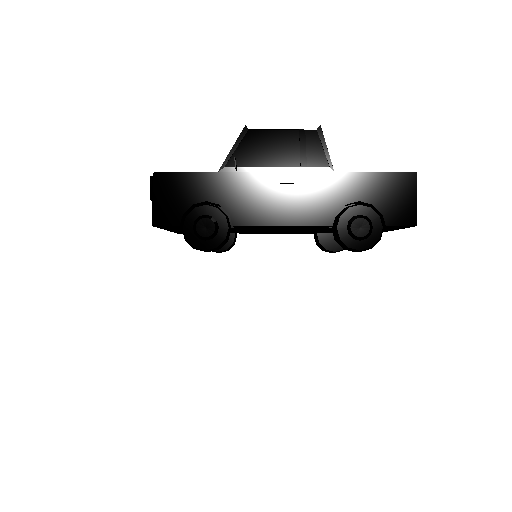
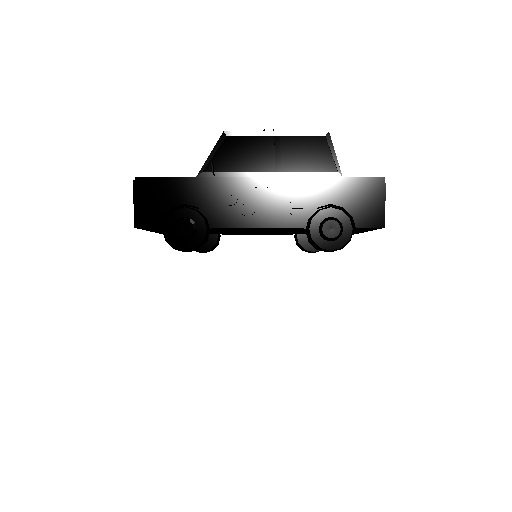
Update material and object references

Changed region(s): [[0.25, 0.25, 0.8125, 0.5], [0.375, 0.375, 0.4375, 0.4062]]

diff --git a/tests/mesh.js b/tests/mesh.js
@@ -38,14 +38,14 @@ const mltlLoader = new MTLLoader();
 
 mltlLoader.load(
 	// resource URL
-	'https://raw.githubusercontent.com/NotReeceHarris/open-captcha/main/assets/cars.mtl',
+	'https://raw.githubusercontent.com/NotReeceHarris/open-captcha/main/assets/police.mtl',
 	// called when resource is loaded
 	function ( material ) {
 
         loader.setMaterials(material);
         loader.load(
             // resource URL
-            'https://raw.githubusercontent.com/NotReeceHarris/open-captcha/main/assets/car.obj',
+            'https://raw.githubusercontent.com/NotReeceHarris/open-captcha/main/assets/police.obj',
             // called when resource is loaded
             function ( object ) {
 
